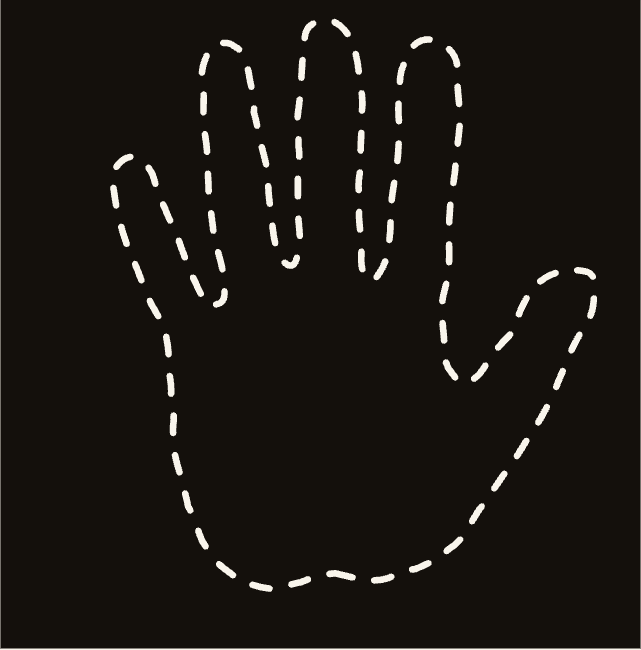
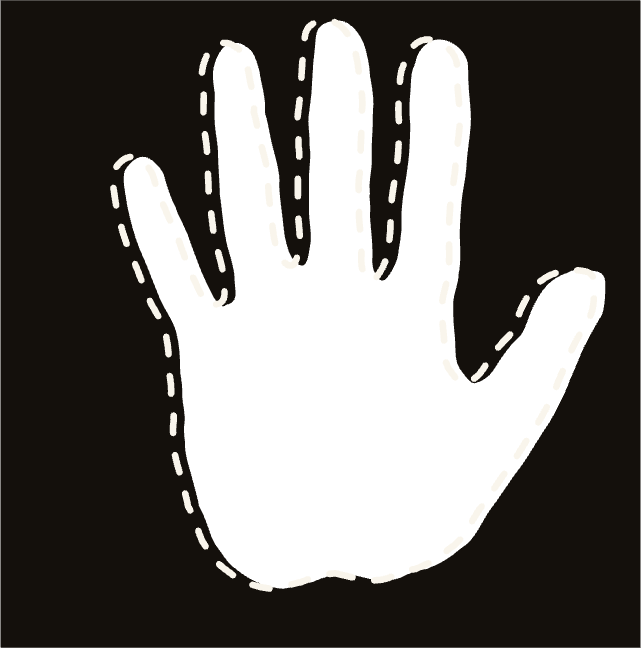
fix: 取景遮罩挖洞失效 — 去除导出页背景层，evenodd 透明区真正生效（33% 透相机）

diff --git a/design/export.html b/design/export.html
@@ -4,7 +4,7 @@
 <meta charset="UTF-8">
 <title>asset export</title>
 <style>
-  body { margin: 0; padding: 20px; background: #F9F5EC; }
+  body { margin: 0; padding: 20px; background: transparent; }
   .slot { display: inline-block; margin: 10px; }
   #hand-outline { background: #26211A; padding: 10px; }
   svg { display: block; }
@@ -14,7 +14,7 @@
   .hand-outline path { stroke: #F9F5EC; stroke-width: 7; stroke-dasharray: 16 21; fill: none; stroke-linecap: round; stroke-linejoin: round; }
   .hand-outline.ink path { stroke: #26211A; }
   /* ④ 取景遮罩：轮廓外黑、轮廓内透明（露相机）+ 洞缘虚线。拇指在右=右手（用户直觉视角） */
-  .vf-mask { background: #14100C; padding: 0; }
+  .vf-mask { padding: 0; }
   .vf-mask svg { display: block; }
 </style>
 </head>
@@ -55,22 +55,15 @@
 </svg>
 </div>
 
-<!-- ④ 取景遮罩 -->
+<!-- ④ 取景遮罩（evenodd 挖洞 + 整体镜像=拇指右/右手） -->
 <div class="slot vf-mask" id="vf-mask">
 <svg viewBox="-10 0 581 588" width="640" height="649">
-  <defs>
-    <mask id="palmHole">
-      <rect x="-10" y="0" width="581" height="588" fill="white"/>
-      <g transform="translate(561,0) scale(-1,1)">
-        <path d="m267 520.36c-8.39 1.99-18.29 4.32-25 6-8.13 0.52-16.22 1-24-2-6.45-3.51-15.53-7.05-24-8-10.88-4.22-21.13-9.81-30-18-13.75-7.79-18.58-22.77-27-35-10.46-13.4-18.77-28.08-29.5-41.5-4.69-6.25-11.724-19.01-21.5-33.5-8.391-12.26-18.788-34.21-21.5-42.5-2.352-5.12-8.51-20.12-12.5-29.5-4.237-8.45-11.19-21.26-16-29-4.403-7.08-4-25.08-4-32 1.167-9.16 8.727-9.21 10.5-9.5 5.41-0.86 18.573-2.48 23.5 1.5 16.708 5.3 24.229 16.17 32 32 2.54 5.09 6.98 20.99 11 25 13.82 13.14 19.45 24.31 24.5 31.5 3.38 5.88 10.57 10.29 15.5 11.5 5 2.34 9.71-5.94 12-8.5 5.65-6.3 6.9-13.08 7-21 0.06-4.63 0.34-12.23 1-17.5 1.29-10.23 0.78-17.38 1-24.5 0.26-8.2-5-18.44-5-28.5-2.08-7.59-1.23-24.6-1-31 0.34-9.56-1-25.55-1.5-33-0.46-6.88-4.17-23.89-4.5-33-0.38-10.56-3.67-29.03-4-40-0.21-6.85 0.92-18.848 1.5-24.998 0.61-6.465 1.05-17.797 1-25.5-0.03-4.758 3.35-12.393 8-16 6.66-7.161 20.06-11.471 28.5-5 11.31 8.187 10.18 16.194 12.5 21 3.62 7.479 2.67 16.834 3.5 24.5 0.63 7.912 1.43 15.541 0 28.498 0 5.7 0.54 18.06 1 25.5 0.5 8.08 2.94 24.11 4 30 1.59 8.82 3.5 24.4 3 32.5-0.66 10.72 2.16 22.3 3 29.5 0.88 7.58 6.8 18.96 12 23.5 4 3.49 11.5-5.27 11.5-17-1.03-17.06 2.54-36.37 2-43.5-0.48-6.33 0.5-13.66 0.5-15-0.81-3.23 0-6.66 0-10 0-7.24-2.64-16.53-2-26 0.39-5.82-0.59-21.62-1-30 0-21.783-0.56-9.93-0.5-19.498 0.04-6.329 1.9-19.102 3-23.5 0.32-10.239 2.96-20.96 5-28 3.25-9.011 11.56-22.292 23.5-23 16.57 0.799 20.31 7.524 21 17.5 0.27 3.915 1.33 16.334 2 20 0.26 5.475 1.16 18.152 1.5 25 0.41 8.209 2.52 20.268 3 27.498 0.28 4.2-1.43 15.86-1 24-1.9 8.3 0.5 20.27 0.5 29.5v28.5c0 12.29-3.13 22.76-1 33 0.89 4.31 1.93 16.73 6.5 17.5 7.65 1.3 15.33-12.22 17.5-34.5 1.33-14.18 4-28.48 4-40-1.64-6.55 4.22-26.79 6-33.5 2.82-10.64 4.25-22.99 7-31-1.28-12.496 3.29-25.14 5-37.498 2.5-9.138 5.27-19.272 12-22 6.5-5.714 13.83-3.333 18-1.5 7 5.251 9.57 12.745 11.5 20.5 1.59 6.393-0.17 17.667-1 23.5 0.01 8.029 0.61 17.838 0 26.998-0.6 9.01-3 19.78-3 27 0.11 9.98-1.5 25.28-1.5 37-2.23 14.72-3 28.93-6 43.5-2.06 9.7-7.43 23.24-7.5 34 0 9.27-4.6 21.31 7.5 23 7 8.37 16.35-17.31 20.5-25 4.81-11.42 11.42-28.99 14-37 2.85-7.75 9.2-18.63 11.5-26 6.02-12.05 8.67-22.39 11-30.5 3.97-7.93 11.52-14.63 17-15.5 7.33-1.16 13.35 4.89 18 12 3.01 7.98-0.4 20.31-2 32-3.05 15.17-6.98 28.59-10.43 37.31-2.48 6.25-8.74 19.99-11.57 28.23-3.35 8.1-7.22 18.91-10.41 24.88-3.51 6.55-9.89 15.88-12.09 24.58-3.14 12.57-3.5 23.31-3.5 33 0 6.21-2 11.75-2 20 0.77 10.25-3.24 19.77-2 30 0.65 2.59 0.5 10.34-0.5 17 0.82 9.79-3.89 22.56-5.5 29-1.94 7.75-7 25.13-7 28.5-8.96 16.43-9.84 28.18-15.5 36-4.85 6.2-9.82 15.24-15.5 19.5-4.68 3.51-9.71 7.86-14 10-8.01 4.39-17 8.76-31 10-9.61-0.87-20.68-5.17-27-6-9.52-4.48-20.63-7.43-31-8z" fill="black" stroke="black" stroke-width="30" stroke-linejoin="round"/>
-      </g>
-    </mask>
-  </defs>
-  <rect x="-10" y="0" width="581" height="588" fill="#14100C" mask="url(#palmHole)"/>
   <g transform="translate(561,0) scale(-1,1)">
+    <path fill-rule="evenodd" fill="#14100C" d="M-10,0 H571 V588 H-10 Z m267 520.36c-8.39 1.99-18.29 4.32-25 6-8.13 0.52-16.22 1-24-2-6.45-3.51-15.53-7.05-24-8-10.88-4.22-21.13-9.81-30-18-13.75-7.79-18.58-22.77-27-35-10.46-13.4-18.77-28.08-29.5-41.5-4.69-6.25-11.724-19.01-21.5-33.5-8.391-12.26-18.788-34.21-21.5-42.5-2.352-5.12-8.51-20.12-12.5-29.5-4.237-8.45-11.19-21.26-16-29-4.403-7.08-4-25.08-4-32 1.167-9.16 8.727-9.21 10.5-9.5 5.41-0.86 18.573-2.48 23.5 1.5 16.708 5.3 24.229 16.17 32 32 2.54 5.09 6.98 20.99 11 25 13.82 13.14 19.45 24.31 24.5 31.5 3.38 5.88 10.57 10.29 15.5 11.5 5 2.34 9.71-5.94 12-8.5 5.65-6.3 6.9-13.08 7-21 0.06-4.63 0.34-12.23 1-17.5 1.29-10.23 0.78-17.38 1-24.5 0.26-8.2-5-18.44-5-28.5-2.08-7.59-1.23-24.6-1-31 0.34-9.56-1-25.55-1.5-33-0.46-6.88-4.17-23.89-4.5-33-0.38-10.56-3.67-29.03-4-40-0.21-6.85 0.92-18.848 1.5-24.998 0.61-6.465 1.05-17.797 1-25.5-0.03-4.758 3.35-12.393 8-16 6.66-7.161 20.06-11.471 28.5-5 11.31 8.187 10.18 16.194 12.5 21 3.62 7.479 2.67 16.834 3.5 24.5 0.63 7.912 1.43 15.541 0 28.498 0 5.7 0.54 18.06 1 25.5 0.5 8.08 2.94 24.11 4 30 1.59 8.82 3.5 24.4 3 32.5-0.66 10.72 2.16 22.3 3 29.5 0.88 7.58 6.8 18.96 12 23.5 4 3.49 11.5-5.27 11.5-17-1.03-17.06 2.54-36.37 2-43.5-0.48-6.33 0.5-13.66 0.5-15-0.81-3.23 0-6.66 0-10 0-7.24-2.64-16.53-2-26 0.39-5.82-0.59-21.62-1-30 0-21.783-0.56-9.93-0.5-19.498 0.04-6.329 1.9-19.102 3-23.5 0.32-10.239 2.96-20.96 5-28 3.25-9.011 11.56-22.292 23.5-23 16.57 0.799 20.31 7.524 21 17.5 0.27 3.915 1.33 16.334 2 20 0.26 5.475 1.16 18.152 1.5 25 0.41 8.209 2.52 20.268 3 27.498 0.28 4.2-1.43 15.86-1 24-1.9 8.3 0.5 20.27 0.5 29.5v28.5c0 12.29-3.13 22.76-1 33 0.89 4.31 1.93 16.73 6.5 17.5 7.65 1.3 15.33-12.22 17.5-34.5 1.33-14.18 4-28.48 4-40-1.64-6.55 4.22-26.79 6-33.5 2.82-10.64 4.25-22.99 7-31-1.28-12.496 3.29-25.14 5-37.498 2.5-9.138 5.27-19.272 12-22 6.5-5.714 13.83-3.333 18-1.5 7 5.251 9.57 12.745 11.5 20.5 1.59 6.393-0.17 17.667-1 23.5 0.01 8.029 0.61 17.838 0 26.998-0.6 9.01-3 19.78-3 27 0.11 9.98-1.5 25.28-1.5 37-2.23 14.72-3 28.93-6 43.5-2.06 9.7-7.43 23.24-7.5 34 0 9.27-4.6 21.31 7.5 23 7 8.37 16.35-17.31 20.5-25 4.81-11.42 11.42-28.99 14-37 2.85-7.75 9.2-18.63 11.5-26 6.02-12.05 8.67-22.39 11-30.5 3.97-7.93 11.52-14.63 17-15.5 7.33-1.16 13.35 4.89 18 12 3.01 7.98-0.4 20.31-2 32-3.05 15.17-6.98 28.59-10.43 37.31-2.48 6.25-8.74 19.99-11.57 28.23-3.35 8.1-7.22 18.91-10.41 24.88-3.51 6.55-9.89 15.88-12.09 24.58-3.14 12.57-3.5 23.31-3.5 33 0 6.21-2 11.75-2 20 0.77 10.25-3.24 19.77-2 30 0.65 2.59 0.5 10.34-0.5 17 0.82 9.79-3.89 22.56-5.5 29-1.94 7.75-7 25.13-7 28.5-8.96 16.43-9.84 28.18-15.5 36-4.85 6.2-9.82 15.24-15.5 19.5-4.68 3.51-9.71 7.86-14 10-8.01 4.39-17 8.76-31 10-9.61-0.87-20.68-5.17-27-6-9.52-4.48-20.63-7.43-31-8z"/>
     <path d="m267 520.36c-8.39 1.99-18.29 4.32-25 6-8.13 0.52-16.22 1-24-2-6.45-3.51-15.53-7.05-24-8-10.88-4.22-21.13-9.81-30-18-13.75-7.79-18.58-22.77-27-35-10.46-13.4-18.77-28.08-29.5-41.5-4.69-6.25-11.724-19.01-21.5-33.5-8.391-12.26-18.788-34.21-21.5-42.5-2.352-5.12-8.51-20.12-12.5-29.5-4.237-8.45-11.19-21.26-16-29-4.403-7.08-4-25.08-4-32 1.167-9.16 8.727-9.21 10.5-9.5 5.41-0.86 18.573-2.48 23.5 1.5 16.708 5.3 24.229 16.17 32 32 2.54 5.09 6.98 20.99 11 25 13.82 13.14 19.45 24.31 24.5 31.5 3.38 5.88 10.57 10.29 15.5 11.5 5 2.34 9.71-5.94 12-8.5 5.65-6.3 6.9-13.08 7-21 0.06-4.63 0.34-12.23 1-17.5 1.29-10.23 0.78-17.38 1-24.5 0.26-8.2-5-18.44-5-28.5-2.08-7.59-1.23-24.6-1-31 0.34-9.56-1-25.55-1.5-33-0.46-6.88-4.17-23.89-4.5-33-0.38-10.56-3.67-29.03-4-40-0.21-6.85 0.92-18.848 1.5-24.998 0.61-6.465 1.05-17.797 1-25.5-0.03-4.758 3.35-12.393 8-16 6.66-7.161 20.06-11.471 28.5-5 11.31 8.187 10.18 16.194 12.5 21 3.62 7.479 2.67 16.834 3.5 24.5 0.63 7.912 1.43 15.541 0 28.498 0 5.7 0.54 18.06 1 25.5 0.5 8.08 2.94 24.11 4 30 1.59 8.82 3.5 24.4 3 32.5-0.66 10.72 2.16 22.3 3 29.5 0.88 7.58 6.8 18.96 12 23.5 4 3.49 11.5-5.27 11.5-17-1.03-17.06 2.54-36.37 2-43.5-0.48-6.33 0.5-13.66 0.5-15-0.81-3.23 0-6.66 0-10 0-7.24-2.64-16.53-2-26 0.39-5.82-0.59-21.62-1-30 0-21.783-0.56-9.93-0.5-19.498 0.04-6.329 1.9-19.102 3-23.5 0.32-10.239 2.96-20.96 5-28 3.25-9.011 11.56-22.292 23.5-23 16.57 0.799 20.31 7.524 21 17.5 0.27 3.915 1.33 16.334 2 20 0.26 5.475 1.16 18.152 1.5 25 0.41 8.209 2.52 20.268 3 27.498 0.28 4.2-1.43 15.86-1 24-1.9 8.3 0.5 20.27 0.5 29.5v28.5c0 12.29-3.13 22.76-1 33 0.89 4.31 1.93 16.73 6.5 17.5 7.65 1.3 15.33-12.22 17.5-34.5 1.33-14.18 4-28.48 4-40-1.64-6.55 4.22-26.79 6-33.5 2.82-10.64 4.25-22.99 7-31-1.28-12.496 3.29-25.14 5-37.498 2.5-9.138 5.27-19.272 12-22 6.5-5.714 13.83-3.333 18-1.5 7 5.251 9.57 12.745 11.5 20.5 1.59 6.393-0.17 17.667-1 23.5 0.01 8.029 0.61 17.838 0 26.998-0.6 9.01-3 19.78-3 27 0.11 9.98-1.5 25.28-1.5 37-2.23 14.72-3 28.93-6 43.5-2.06 9.7-7.43 23.24-7.5 34 0 9.27-4.6 21.31 7.5 23 7 8.37 16.35-17.31 20.5-25 4.81-11.42 11.42-28.99 14-37 2.85-7.75 9.2-18.63 11.5-26 6.02-12.05 8.67-22.39 11-30.5 3.97-7.93 11.52-14.63 17-15.5 7.33-1.16 13.35 4.89 18 12 3.01 7.98-0.4 20.31-2 32-3.05 15.17-6.98 28.59-10.43 37.31-2.48 6.25-8.74 19.99-11.57 28.23-3.35 8.1-7.22 18.91-10.41 24.88-3.51 6.55-9.89 15.88-12.09 24.58-3.14 12.57-3.5 23.31-3.5 33 0 6.21-2 11.75-2 20 0.77 10.25-3.24 19.77-2 30 0.65 2.59 0.5 10.34-0.5 17 0.82 9.79-3.89 22.56-5.5 29-1.94 7.75-7 25.13-7 28.5-8.96 16.43-9.84 28.18-15.5 36-4.85 6.2-9.82 15.24-15.5 19.5-4.68 3.51-9.71 7.86-14 10-8.01 4.39-17 8.76-31 10-9.61-0.87-20.68-5.17-27-6-9.52-4.48-20.63-7.43-31-8z" fill="none" stroke="#F9F5EC" stroke-width="6" stroke-dasharray="16 20" stroke-linecap="round"/>
   </g>
 </svg>
 </div>
+
 </body>
 </html>
